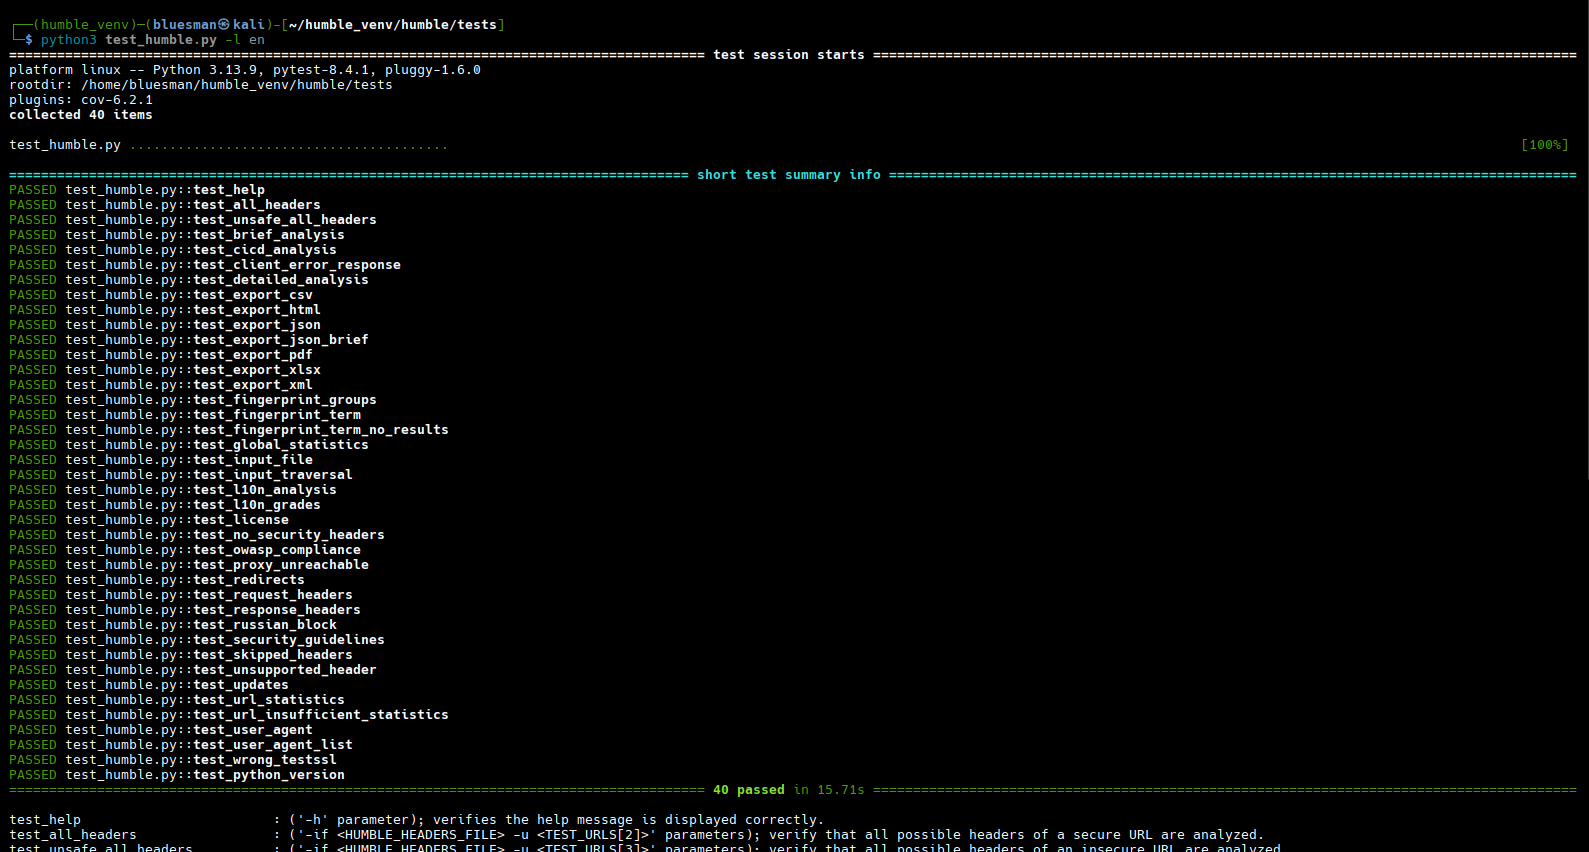
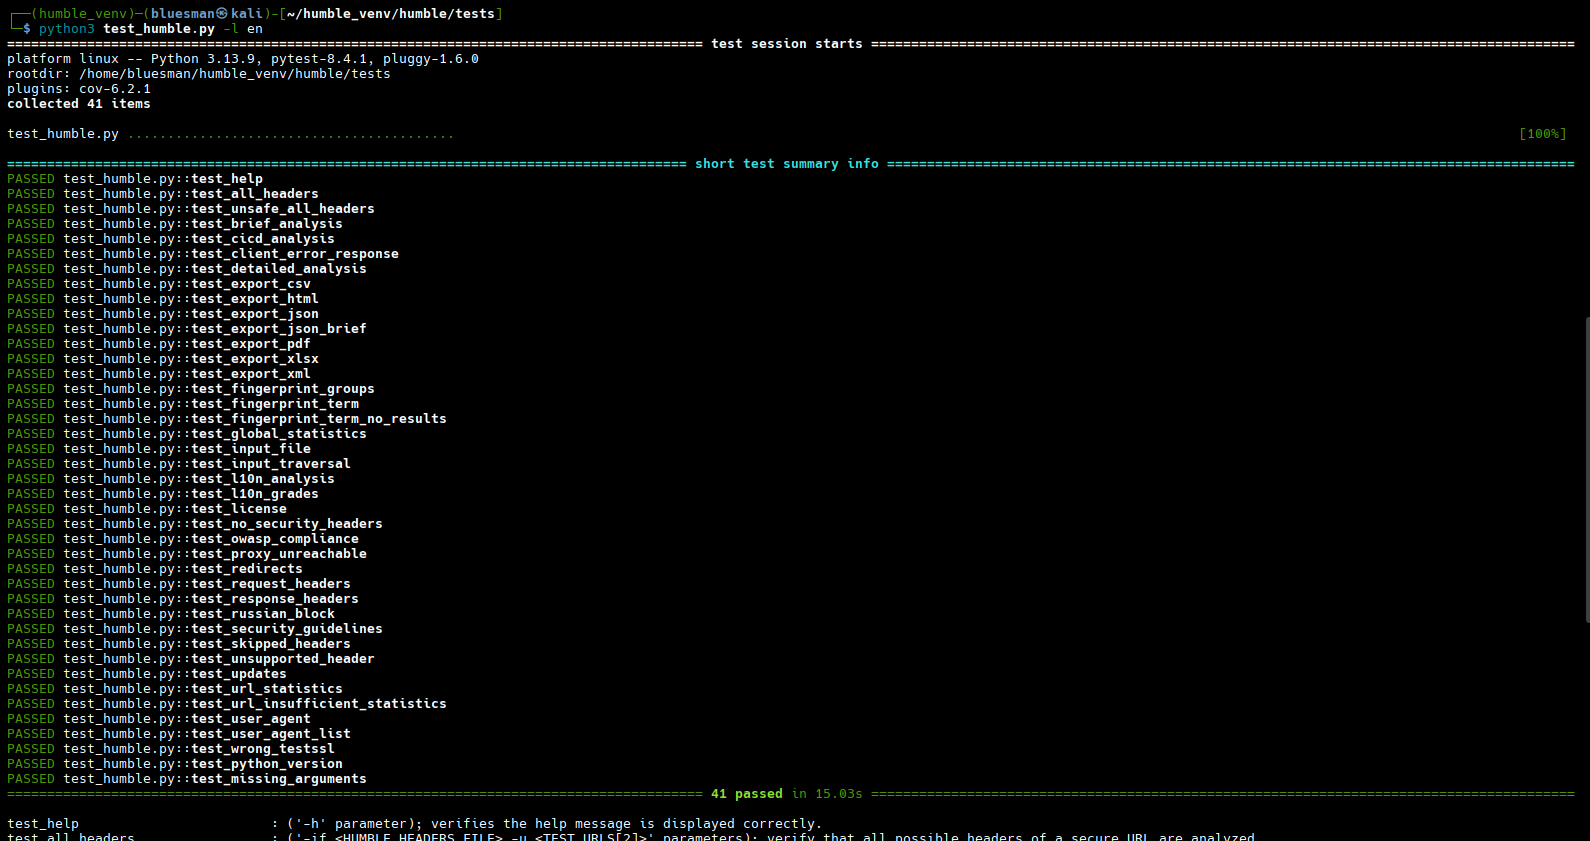
Feature: 1 new unit test

Changed region(s): [[0.0, 0.0, 1.0, 1.0], [0.9868, 0.371, 1.0, 0.742]]

diff --git a/tests/test_humble.py b/tests/test_humble.py
@@ -122,7 +122,7 @@ TEST_SUMMS = ('[test_help]', '[test_all_headers]', '[test_unsafe_all_headers]',
               '[test_updates]', '[test_url_statistics]',
               '[test_url_insufficient_statistics]', '[test_user_agent]',
               '[test_user_agent_list]', '[test_wrong_testssl]',
-              '[test_python_version]')
+              '[test_python_version]', '[test_missing_parameters]')
 
 
 class _Args:
@@ -175,10 +175,9 @@ def print_results():
 
 
 def run_test(args, expected_text, timeout=5):
-    """
-    Run each of the available tests
-    """
+    """Run each of the available tests"""
     test_args = [TEST_URLS[9] if a is None else a for a in args]
+
     try:
         result = subprocess.run(
             [sys.executable, HUMBLE_MAIN_FILE] + test_args,
@@ -191,6 +190,21 @@ def run_test(args, expected_text, timeout=5):
         output = result.stdout + result.stderr
     except subprocess.TimeoutExpired:
         pytest.fail(get_detail('[test_timeout]', replace=True))
+    parse_expected_text(output, expected_text)
+
+
+def parse_expected_text(output, expected_text):
+    # sourcery skip: invert-any-all
+    """Checks if expected text is present in each test"""
+    if isinstance(expected_text, (list, tuple, set)):
+        if not any(e in output for e in expected_text):
+            pytest.fail(
+                f"{get_detail('[test_expected]', replace=True)} "
+                f"{expected_text} {get_detail('[test_notfound]',
+                                              replace=True)}"
+            )
+        return
+
     if expected_text not in output:
         pytest.fail(
             f"{get_detail('[test_expected]', replace=True)} '{expected_text}' "
@@ -220,24 +234,31 @@ for key in TEST_CFGS.keys():
     globals()[key] = make_test_func(key)
 
 
-def get_python_version(req=REQUIRED_PYTHON):
-    """
-    Check if the installed Python version is equal to or greater than the
-    minimum required
-    """
-    return sys.version_info[:2] >= req
-
-
 def test_python_version():
     """
     Returns an error message if the installed Python version is less than the
     minimum required
     """
-    if not get_python_version():
+    if sys.version_info[:2] < REQUIRED_PYTHON:
         pytest.fail(
             f"{get_detail('[test_pythonm]', replace=True)} "
             f"{sys.version_info.major}.{sys.version_info.minor}"
         )
+
+
+def test_missing_arguments():
+    """
+    Performs multiple checks, under a single test, associated with missing
+    parameters required for certain functionalities
+    """
+    expected = ["Error:", "error:", "TXT"]
+    run_test(['-H', 'Cache-Control: no-cache'], expected)
+    run_test(['-if', 'humble_test.txt', '-r'], expected)
+    run_test(['-if', 'humble_test.txt'], expected)
+    run_test(['-l', 'es'], expected)
+    run_test(['-of', 'humble_test.txt'], expected)
+    run_test(['-b'], expected)
+    run_test(['-s'], expected)
 
 
 def delete_export_files(extension, ok_msg, ko_msg):
